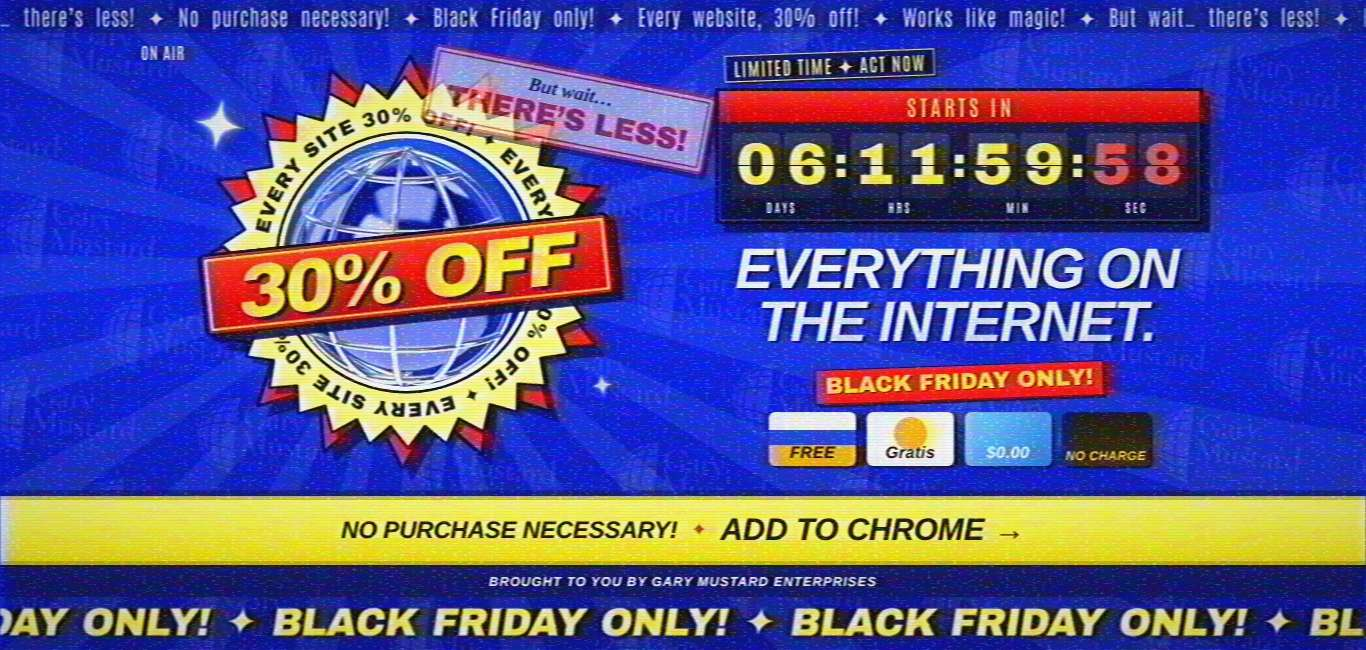
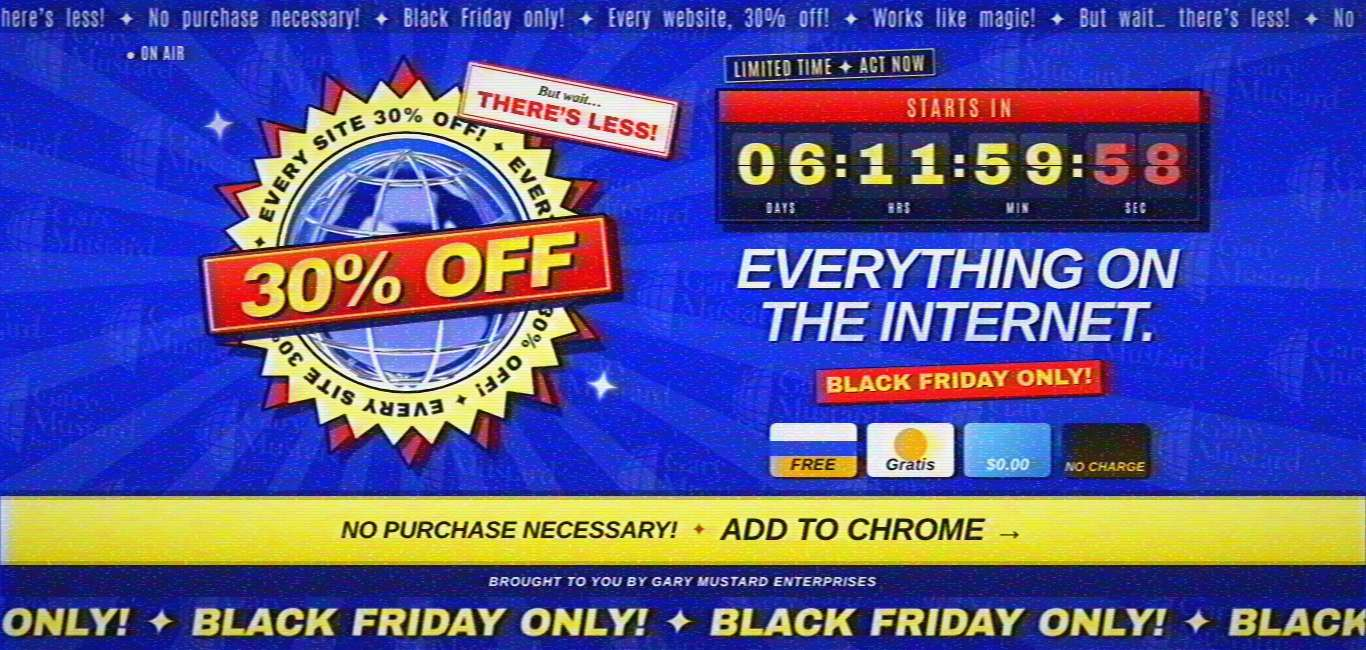
Website: the Globe Badge look with the split-flap timer, warm sun palette on Black Friday, the four cards evenly spaced; no ON AIR or LIMITED TIME labels
Claude-Session: https://claude.ai/code/session_01NWuCfpnnkXbDHA2WA7GWBY

diff --git a/website/src/style.css b/website/src/style.css
@@ -54,12 +54,6 @@ body { -webkit-font-smoothing: antialiased; -webkit-tap-highlight-color: transpa
 .crawl .run > span { text-shadow: 0.027em 0.027em 0 var(--shade), 0.054em 0.054em 0 var(--shade), 0.08em 0.08em 0 var(--shade); }
 
 /* the deck's on-screen display, top left */
-.osd { position: absolute; left: calc(34 * var(--s)); top: calc(14 * var(--s)); z-index: 2; white-space: nowrap;
-       font: 600 calc(20 * var(--s))/1 "Antonio", "Arial Narrow", sans-serif; color: #fff; letter-spacing: 0.06em;
-       text-shadow: 0.06em 0.06em 0 rgba(4, 8, 60, 0.9), -0.03em -0.03em 0 rgba(4, 8, 60, 0.6); }
-.osd b { color: var(--yellow); font-weight: 600; }
-.blink .osd b { visibility: hidden; }
-.tall .osd { left: calc(14 * var(--s)); top: calc(8 * var(--s)); font-size: calc(14 * var(--s)); }
 
 /* ---- the stage: the badge, the clock, the words ---- */
 .stage { flex: 1 1 0 !important; min-height: 0; width: 100%; max-width: calc(1440 * var(--s)); margin: 0 auto; display: grid;
@@ -113,13 +107,8 @@ body { -webkit-font-smoothing: antialiased; -webkit-tap-highlight-color: transpa
 .stamp .b { font: 400 1em/1 "Archivo Black", "Arial Black", sans-serif; letter-spacing: -0.02em; }
 .moving .stamp { animation: thud 6s -4.6s ease-in-out infinite; }
 
-/* ---- the clock: split-flap digits in a dark case under a red header, the LIMITED TIME label over it ---- */
+/* ---- the clock: split-flap digits in a dark case under a red header ---- */
 .timer { display: flex; flex-direction: column; align-items: flex-start; }
-.label { font: 600 0.3em/1 "Antonio", "Arial Narrow", sans-serif; letter-spacing: 0.08em; color: var(--yellow); background: var(--shade);
-         padding: 0.18em 0.45em 0.2em; border: 0.06em solid var(--yellow); box-shadow: 0.1em 0.1em 0 rgba(4, 6, 50, 0.8);
-         margin: 0 0 0.55em 0.5em; transform: rotate(-2deg); }
-.label .to, .bf .label .lt { display: none; }
-.bf .label .to { display: inline; }
 .clock { display: flex; flex-direction: column; align-items: stretch; color: var(--yellow); background: linear-gradient(#141a52, #070a2e);
          border: 0.05em solid #000; box-shadow: inset 0 0 0 0.03em #2a3290, 0.12em 0.14em 0 var(--navy); }
 .clock .ch { display: flex; align-items: center; justify-content: center; background: linear-gradient(#ff3a2a, #e00a0a 60%, #c80000);
@@ -202,9 +191,7 @@ body { -webkit-font-smoothing: antialiased; -webkit-tap-highlight-color: transpa
 .bf .crawl { background: rgba(70, 0, 12, 0.34); }
 .bf .sub { filter: drop-shadow(0.045em 0.045em 0 rgba(6, 8, 70, 0.95)) drop-shadow(0 0 0.12em rgba(90, 0, 10, 0.45)); }
 .bf .tag { background: var(--yellow); color: var(--red); text-shadow: 0.05em 0.05em 0 #7a6a00; }
-.bf .label { box-shadow: 0.1em 0.1em 0 var(--navy); }
 .bf .order { box-shadow: inset 0 calc(5 * var(--s)) 0 rgba(170, 158, 0, 0.6), inset 0 calc(-5 * var(--s)) 0 rgba(170, 158, 0, 0.6), 0 calc(-7 * var(--s)) 0 rgba(6, 8, 70, 0.85); }
-.bf .osd { text-shadow: 0.06em 0.06em 0 rgba(6, 8, 70, 0.95), 0 0 0.3em rgba(70, 0, 12, 0.6); }
 .bf.moving .burst.red { animation-duration: 9s; }
 .bf.moving .burst.yellow { animation-duration: 3.6s; }
 .bf.moving .sticker { animation: pump 0.5s ease-out infinite; }

diff --git a/website/src/main.js b/website/src/main.js
@@ -9,7 +9,6 @@ import TILE from './images/tile.png?inline';
 
 const BEAT = 0.25;   // s. On the day the big flips (sash, tag, clock, rays, the red rim) happen only on every other
                      // beat, all in step: 2 flashes a second, under the 3 a second of WCAG 2.3.1
-const BLINK = 0.5;   // s. The ON AIR light, before the day (on the day it blinks on the beat)
 
 const TICKER = 'But wait… there’s less! ✦ No purchase necessary! ✦ Black Friday only! ✦ Every website, 30% off! ✦ Works like magic! ✦ ';
 const CRAWL = 'BLACK FRIDAY ONLY! ✦ ';
@@ -129,6 +128,20 @@ function run(r, bandH) {
   r.el.style.setProperty('--dur', `${unitW / (bandH * r.speed)}s`);
 }
 
+// the cards sit halfway between the BLACK FRIDAY ONLY! tag and the yellow tape
+function balanceCards() {
+  const cards = $('.cards'), tag = $('.tag'), order = $('.order');
+  cards.style.marginTop = '';
+  for (let i = 0; i < 3; i++) {
+    const above = cards.getBoundingClientRect().top - tag.getBoundingClientRect().bottom;
+    const below = order.getBoundingClientRect().top - cards.getBoundingClientRect().bottom;
+    const zoom = cards.getBoundingClientRect().height / cards.offsetHeight || 1; // the fitted block may be scaled
+    const shift = (below - above) / 2 / zoom;
+    if (Math.abs(shift) < 0.5) break;
+    cards.style.marginTop = `${parseFloat(getComputedStyle(cards).marginTop) + shift}px`;
+  }
+}
+
 let geo = { W: 1, H: 1, s: 1, tall: false, cx: 0, cy: 0, r: 100 };
 function layout() {
   const W = tv.clientWidth, H = tv.clientHeight, tall = W / H < 0.85;
@@ -140,6 +153,7 @@ function layout() {
   fit($('.words'), tall ? { w: 0.94, h: 0.96 } : { w: 0.9, h: 0.88 });
   fit($('.order .fit'), tall ? { w: 0.9, h: 0.72 } : { w: 0.9, h: 0.46 });
   fit($('.by .fit'), { w: 0.92, h: 0.42 });
+  balanceCards();
 
   const tk = Math.min(H * 0.2, W * (tall ? 0.2 : 0.11));
   $('.takeover').style.setProperty('--tk', `${tk}px`);
@@ -175,7 +189,6 @@ function draw(t) {
   const beatN = Math.floor(t / BEAT), onBeat = bf && MOVING && beatN % 2 === 1;
   if (MOVING) {
     set('beat', onBeat);
-    set('blink', bf ? onBeat : Math.floor(t / BLINK) % 2 === 1);
     ang += dt * (bf ? 0.6 : (2 * Math.PI) / 180); // the banner's rays go round in 3 minutes
   }
   if (!bg) return;

diff --git a/website/src/index.html b/website/src/index.html
@@ -40,7 +40,6 @@
     <div class="ticker" aria-hidden="true"><div class="run"><span></span></div></div>
 
     <main class="stage">
-      <p class="osd" aria-hidden="true"><b>●</b> ON AIR</p>
 
       <!-- the badge: everything in it is sized in em, 1em being the badge's radius (see .badge) -->
       <div class="badge-box">
@@ -70,10 +69,9 @@
         </div>
       </div>
 
-      <!-- the clock: the split-flap digits in their case, under the LIMITED TIME label -->
+      <!-- the clock: the split-flap digits in their case -->
       <div class="clock-box">
         <div class="fit timer">
-          <p class="label" aria-hidden="true"><span class="lt">LIMITED TIME</span><span class="to">TODAY ONLY</span> ✦ ACT NOW</p>
           <div class="clock" role="timer" aria-live="off" aria-label="Black Friday starts in">
             <div class="ch"><span class="lbl">STARTS IN</span></div>
             <div class="row"></div>
